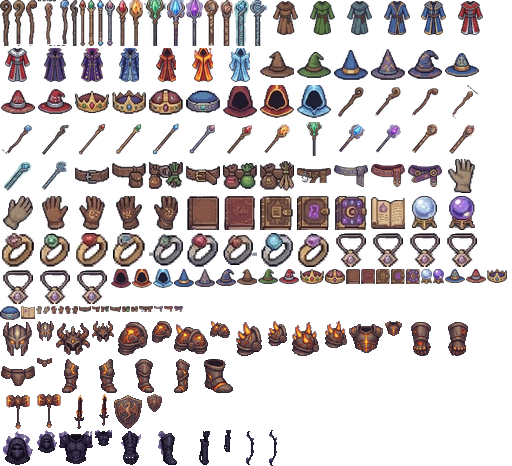
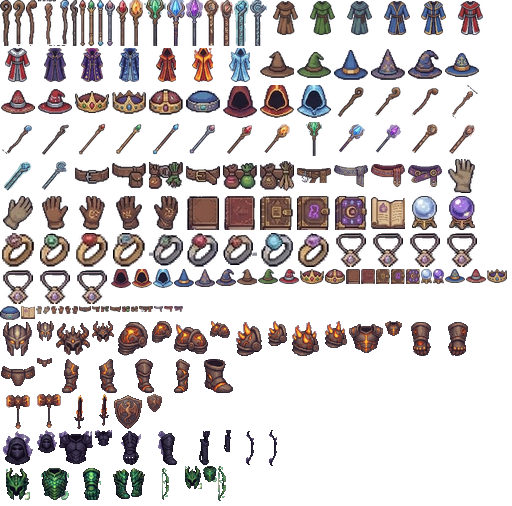
Add files via upload

diff --git a/eldoria/public/ui2.js b/eldoria/public/ui2.js
@@ -532,4 +532,73 @@
     box.append(n, cd, pw, go, msg); form.append(box);
     a.addEventListener('click', () => { box.hidden = !box.hidden; if (!box.hidden) { n.value = $('#lname').value; n.focus(); } });
   })();
+
+  /* ---------- Hidra de Jade: lluvia ácida, fuego amarillo, golpe con piedras ---------- */
+  X.on('fx', (f) => {
+    const now = performance.now();
+    switch (f.k) {
+      case 'ykw': BF.push({ k: 'ykw', t: now, T: 1000, f }); break;
+      case 'yk': BF.push({ k: 'yk', t: now, T: 1000, f, seed: Math.random() * 99 }); G.shake = { t: now, m: 3 }; X.sfx && X.sfx('boss'); X.burst(f.x1, f.y1, 'storm', 26, { sp: 4, life: 0.7, size: 3.2 }); break;
+      case 'acw': BF.push({ k: 'acw', t: now, T: 900, f }); break;
+      case 'ac': BF.push({ k: 'pool', t: now, T: 3500, x: f.x, y: f.y, seed: Math.random() * 9 }); X.burst(f.x, f.y, 'poison', 22, { sp: 3.5, up: 4, g: 5, life: 0.7, size: 3 }); X.ring(f.x, f.y, 'poison', 420, 34, 4); break;
+      case 'hsw': BF.push({ k: 'hsw', t: now, T: 1100, f }); break;
+      case 'hs': X.ring(f.x, f.y, 'poison', 650, f.r * 32, 6); X.ring(f.x, f.y, 'dark', 520, f.r * 20, 4); X.burst(f.x, f.y, 'dark', 40, { sp: 6, up: 3, g: 5, life: 0.9, size: 3.6, add: false }); G.shake = { t: now, m: 9 }; X.sfx && X.sfx('thunder'); break;
+      case 'rcw': BF.push({ k: 'rcw', t: now, T: 1100, f, h: rnd(-6, 6) }); break;
+      case 'rc': BF.push({ k: 'rubble', t: now, T: 5000, x: f.x, y: f.y, s: Math.random() * 99 }); X.burst(f.x, f.y, 'dark', 26, { sp: 5, up: 4, g: 6, life: 0.8, size: 3.4, add: false }); X.ring(f.x, f.y, 'dark', 380, 30, 4); G.shake = { t: now, m: 4 }; break;
+      default: break;
+    }
+  });
+  const hmouths = (f) => { let face = 1; for (const e of G.ents.values()) if (e.kind === 'mo' && e.t === 'hidra_jade' && Math.abs(e.x - f.x1) < 2 && Math.abs(e.y - f.y1) < 2) face = e.face || 1; return [-1.9, -1.25, -0.6].map((u) => [px(f.x1) + face * 1.7 * X.TS, py(f.y1) + u * X.TS]); };
+  X.on('under', (c, now) => {
+    const TS = X.TS;
+    for (const b of BF) {
+      const p = (now - b.t) / b.T; if (p >= 1) continue;
+      if (b.k === 'ykw') {
+        const f = b.f, [x1, y1] = hmouths(f)[1], x2 = px(f.x2), y2 = py(f.y2), a = Math.atan2(y2 - y1, x2 - x1), L = Math.hypot(x2 - x1, y2 - y1);
+        c.save(); c.translate(x1, y1); c.rotate(a); c.fillStyle = `rgba(255,210,40,${0.10 + 0.22 * p})`; c.fillRect(0, -TS * 1.8, L, TS * 3.6);
+        c.strokeStyle = `rgba(255,235,120,${0.35 + 0.4 * Math.abs(Math.sin(now / 90))})`; c.lineWidth = 2; c.strokeRect(0, -TS * 1.8, L, TS * 3.6); c.restore();
+      } else if (b.k === 'acw' || b.k === 'rcw') {
+        const f = b.f, x = px(f.x), y = py(f.y), r = f.r * TS, acid = b.k === 'acw';
+        c.fillStyle = acid ? `rgba(120,230,40,${0.10 + 0.25 * p})` : `rgba(200,170,120,${0.08 + 0.22 * p})`; c.beginPath(); c.arc(x, y, r, 0, 7); c.fill();
+        c.strokeStyle = acid ? `rgba(190,255,90,${0.5 + 0.4 * Math.abs(Math.sin(now / 70))})` : `rgba(255,200,120,${0.5 + 0.4 * Math.abs(Math.sin(now / 70))})`; c.lineWidth = 2; c.beginPath(); c.arc(x, y, r, 0, 7); c.stroke();
+      } else if (b.k === 'hsw') {
+        const f = b.f, x = px(f.x), y = py(f.y), r = f.r * TS;
+        c.fillStyle = `rgba(120,200,60,${0.08 + 0.22 * p})`; c.beginPath(); c.arc(x, y, r, 0, 7); c.fill();
+        c.strokeStyle = `rgba(200,255,120,.85)`; c.lineWidth = 3; c.beginPath(); c.arc(x, y, r, 0, 7); c.stroke(); c.beginPath(); c.arc(x, y, r * p, 0, 7); c.stroke();
+      } else if (b.k === 'pool') {
+        const x = px(b.x), y = py(b.y), al = Math.min(1, (1 - p) * 2.4);
+        const g = c.createRadialGradient(x, y, 2, x, y, TS * 1.3); g.addColorStop(0, `rgba(150,255,60,${0.75 * al})`); g.addColorStop(1, `rgba(60,150,20,0)`);
+        c.fillStyle = g; c.beginPath(); c.ellipse(x, y, TS * 1.3, TS * 0.9, 0, 0, 7); c.fill();
+        for (let i = 0; i < 4; i++) { const t = (now / 500 + i * 0.27 + b.seed) % 1; c.fillStyle = `rgba(220,255,140,${0.6 * al * (1 - t)})`; c.beginPath(); c.arc(x + Math.sin(i * 2.1 + b.seed) * TS * 0.7, y - t * 12 + 4, 2 + t * 2, 0, 7); c.fill(); }
+      } else if (b.k === 'rubble') {
+        const x = px(b.x), y = py(b.y), al = Math.min(1, (1 - p) * 3);
+        c.fillStyle = `rgba(0,0,0,${0.3 * al})`; c.beginPath(); c.ellipse(x, y + 8, 18, 6, 0, 0, 7); c.fill();
+        for (let i = 0; i < 5; i++) { const a = i * 1.3 + b.s, rr = 5 + (i % 3) * 5; c.fillStyle = `rgba(${70 + i * 12},${64 + i * 10},${58 + i * 8},${al})`; c.beginPath(); c.moveTo(x + Math.cos(a) * rr - 5, y + Math.sin(a) * rr * 0.5 + 3); c.lineTo(x + Math.cos(a) * rr + 1, y + Math.sin(a) * rr * 0.5 - 5); c.lineTo(x + Math.cos(a) * rr + 6, y + Math.sin(a) * rr * 0.5 + 4); c.closePath(); c.fill(); }
+      }
+    }
+  });
+  X.on('draw', (c, now) => {
+    const TS = X.TS;
+    for (const b of BF) {
+      const p = (now - b.t) / b.T; if (p >= 1) continue;
+      if (b.k === 'yk') {
+        const f = b.f, hm = hmouths(f), x2 = px(f.x2), y2 = py(f.y2), reach = Math.min(1, p * 4), al = p < 0.7 ? 1 : (1 - p) / 0.3;
+        hm.forEach(([x1, y1], hi) => {
+          const a = Math.atan2(y2 - y1, x2 - x1), L = Math.hypot(x2 - x1, y2 - y1);
+          c.save(); c.translate(x1, y1); c.rotate(a);
+          const n = 30; for (let i = 0; i < n; i++) {
+            const s = (i / n) * L * reach, w = 4 + (s / L) * (hi === 1 ? 24 : 15), off = Math.sin(now / 50 + i * 1.7 + b.seed + hi) * w * 0.5;
+            c.fillStyle = `rgba(255,${170 + (i % 3) * 25},20,${0.7 * al})`; c.beginPath(); c.arc(s, off, w, 0, 7); c.fill();
+          }
+          c.globalCompositeOperation = 'lighter';
+          for (let i = 0; i < 12; i++) { const s = rnd(0, L * reach); c.fillStyle = `rgba(255,245,150,${0.45 * al})`; c.beginPath(); c.arc(s, rnd(-1, 1) * (6 + s / L * 16), rnd(2, 5), 0, 7); c.fill(); }
+          c.restore();
+        });
+      } else if (b.k === 'acw' || b.k === 'rcw') {       // lo que cae: gota de ácido o piedra
+        const f = b.f, x = px(f.x), y0 = py(f.y), fall = (1 - p) * (b.k === 'acw' ? 170 : 210), y = y0 - fall;
+        if (b.k === 'acw') { c.fillStyle = 'rgba(150,255,60,.95)'; c.beginPath(); c.moveTo(x, y - 12); c.quadraticCurveTo(x + 8, y + 2, x, y + 6); c.quadraticCurveTo(x - 8, y + 2, x, y - 12); c.fill(); c.fillStyle = 'rgba(230,255,170,.8)'; c.fillRect(x - 2, y - 2, 2, 4); }
+        else { c.save(); c.translate(x + b.h, y); c.rotate(p * 7); c.fillStyle = '#6b6258'; c.beginPath(); c.moveTo(-9, 2); c.lineTo(-3, -9); c.lineTo(8, -5); c.lineTo(9, 6); c.lineTo(-2, 9); c.closePath(); c.fill(); c.strokeStyle = '#2b2622'; c.lineWidth = 2; c.stroke(); c.fillStyle = '#8c8276'; c.fillRect(-3, -6, 5, 3); c.restore(); }
+      }
+    }
+  });
 })();

diff --git a/eldoria/game/world.js b/eldoria/game/world.js
@@ -27,6 +27,7 @@ const ZONES = [
   { id: 'catacumbas', name: 'Catacumbas Silenciosas', pvp: false, kind: 'dungeon', rect: [3, 40, 30, 91] },
   { id: 'minas',      name: 'Minas Enanas',           pvp: false, kind: 'dungeon', rect: [3, 96, 28, 136] },
   { id: 'cueva',      name: 'Cueva del Dragón de las Sombras', pvp: false, kind: 'dungeon', dark: true, rect: [106, 80, 139, 99] },
+  { id: 'cueva_jade', name: 'Cueva del Hidra de Jade', pvp: false, kind: 'dungeon', dark: true, rect: [36, 38, 69, 57] },
   { id: 'abismo',     name: 'Abismo Carmesí',         pvp: true,  kind: 'dungeon', rect: [112, 40, 139, 74] },
   { id: 'piramide',   name: 'Pirámide Olvidada',      pvp: true,  kind: 'dungeon', rect: [148, 100, 175, 136] },
   { id: 'fortaleza',  name: 'Fortaleza de Hielo',     pvp: true,  kind: 'dungeon', rect: [148, 3, 175, 30] },
@@ -199,24 +200,28 @@ const forRooms = carveDungeon('fortaleza', 3, 3, T.IFLOOR);
 
 /* 3b) Cueva del Dragón: una caverna enorme y oscura con una sola puerta (en el camino del desierto) */
 const CAVE = { rect: zoneById('cueva').rect, door: [122, 79], inside: [122, 85], exit: [122, 82], lair: [123, 95] };
-(function carveCave() {
-  const [x0, y0, x1, y1] = CAVE.rect, cx = (x0 + x1) / 2, cy = (y0 + y1) / 2 + 1, nz = makeNoise(909);
+const CAVE2 = { rect: zoneById('cueva_jade').rect, door: [52, 59], inside: [52, 52], exit: [52, 55], lair: [53, 42], flip: true };
+function carveCave(C, seed) {
+  const [x0, y0, x1, y1] = C.rect, cx = (x0 + x1) / 2, cy = (y0 + y1) / 2 + (C.flip ? -1 : 1), nz = makeNoise(seed);
+  const fy = (y) => (C.flip ? y0 + y1 - y : y);          // la puerta puede estar al norte o al sur
   for (let y = y0; y <= y1; y++) for (let x = x0; x <= x1; x++) tiles[idx(x, y)] = T.CWALL;
   const floor = (x, y) => { if (x > x0 && x < x1 && y > y0 && y < y1) tiles[idx(x, y)] = T.CFLOOR; };
   for (let y = y0 + 1; y < y1; y++) for (let x = x0 + 1; x < x1; x++) {
     const dx = (x - cx) / ((x1 - x0) / 2), dy = (y - cy) / ((y1 - y0) / 2), r = Math.hypot(dx, dy);
     if (r < 0.9 + (nz(x / 3, y / 3) - 0.5) * 0.42) floor(x, y);
   }
-  for (let y = y0 + 1; y <= 88; y++) for (let x = 118; x <= 126; x++) floor(x, y);            // vestíbulo de la entrada
-  for (let y = 90; y <= y1 - 1; y++) for (let x = 114; x <= 132; x++) if (Math.hypot(x - 123, (y - 95) * 1.3) < 8.5) floor(x, y);   // guarida del dragón
-  const keep = (x, y) => Math.abs(x - CAVE.inside[0]) <= 3 && Math.abs(y - CAVE.inside[1]) <= 3 || Math.hypot(x - CAVE.lair[0], y - CAVE.lair[1]) <= 5;
-  const pil = mulberry32(31337);                                                                  // estalagmitas
+  const vx = C.inside[0];
+  for (let y = y0 + 1; y <= y0 + 8; y++) for (let x = vx - 4; x <= vx + 4; x++) floor(x, fy(y));        // vestíbulo de la entrada
+  for (let y = y0 + 10; y <= y1 - 1; y++) for (let x = C.lair[0] - 9; x <= C.lair[0] + 9; x++) if (Math.hypot(x - C.lair[0], (y - (y0 + 15)) * 1.3) < 8.5) floor(x, fy(y));   // guarida
+  const keep = (x, y) => Math.abs(x - C.inside[0]) <= 3 && Math.abs(y - C.inside[1]) <= 3 || Math.hypot(x - C.lair[0], y - C.lair[1]) <= 5;
+  const pil = mulberry32(seed * 7 + 1);                                                              // estalagmitas
   for (let y = y0 + 2; y < y1 - 1; y++) for (let x = x0 + 2; x < x1 - 1; x++) if (tiles[idx(x, y)] === T.CFLOOR && !keep(x, y) && pil() < 0.045) tiles[idx(x, y)] = T.CWALL;
-  // solo queda lo que se pueda recorrer desde la entrada
-  const seen = new Set([idx(CAVE.inside[0], CAVE.inside[1])]), q = [...seen];
+  const seen = new Set([idx(C.inside[0], C.inside[1])]), q = [...seen];                              // solo queda lo recorrible desde la entrada
   for (let i = 0; i < q.length; i++) { const k = q[i], x = k % W, y = (k / W) | 0; for (const [dx, dy] of [[1, 0], [-1, 0], [0, 1], [0, -1], [1, 1], [-1, -1], [1, -1], [-1, 1]]) { const nk = idx(x + dx, y + dy); if (!seen.has(nk) && tiles[nk] === T.CFLOOR) { seen.add(nk); q.push(nk); } } }
   for (let y = y0; y <= y1; y++) for (let x = x0; x <= x1; x++) if (tiles[idx(x, y)] === T.CFLOOR && !seen.has(idx(x, y))) tiles[idx(x, y)] = T.CWALL;
-})();
+}
+carveCave(CAVE, 909);
+carveCave(CAVE2, 1313);
 
 /* 4) Caminos (despejan árboles, agua y rocas del trazado) */
 function carvePath(x0, y0, x1, y1) {
@@ -253,6 +258,8 @@ link(150, 90, pirRooms, 150, 89, 'Pirámide Olvidada (¡PvP!)', 'Salir al Desier
 link(130, 20, forRooms, 130, 22, 'Fortaleza de Hielo (¡PvP!)', 'Salir a las Cumbres');
 addPortal(CAVE.door[0], CAVE.door[1], CAVE.inside[0], CAVE.inside[1], 'Cueva del Dragón de las Sombras (peligro extremo)');
 addPortal(CAVE.exit[0], CAVE.exit[1], CAVE.door[0], CAVE.door[1] - 1, 'Salir al Desierto');
+addPortal(CAVE2.door[0], CAVE2.door[1], CAVE2.inside[0], CAVE2.inside[1], 'Cueva del Hidra de Jade (peligro extremo)');
+addPortal(CAVE2.exit[0], CAVE2.exit[1], CAVE2.door[0], CAVE2.door[1] + 1, 'Salir al Prado');
 
 function clearAround(cx, cy, r) {
   for (let y = cy - r; y <= cy + r; y++) {
@@ -348,6 +355,7 @@ const monsterSpawns = [];
   monsterSpawns.push({ type: 'faraon', x: last(pirRooms).cx, y: last(pirRooms).cy });
   monsterSpawns.push({ type: 'reina_hielo', x: last(forRooms).cx, y: last(forRooms).cy });
   monsterSpawns.push({ type: 'dragon_sombra', x: CAVE.lair[0], y: CAVE.lair[1] });
+  monsterSpawns.push({ type: 'hidra_jade', x: CAVE2.lair[0], y: CAVE2.lair[1] });
   const nearest = (zoneId, px, py) => {
     let best = null, bd = 1e9;
     for (let y = 0; y < H; y++) for (let x = 0; x < W; x++) {

diff --git a/eldoria/game/ext.js b/eldoria/game/ext.js
@@ -795,10 +795,59 @@ module.exports = function install(Game) {
       });
     }
   };
+  // Hidra de Jade: lluvia ácida, fuego amarillo por las bocas y golpe al suelo con caída de piedras
+  P.hydraAI = function (m, now) {
+    if (now < (m.nextSp || 0)) return;
+    const t = m.target ? this.ents.get(m.target) : null; if (!t || t.kind !== 'pl' || t.hp <= 0) return;
+    const d = Math.hypot(t.x - m.x, t.y - m.y);
+    const near = [...this.players.values()].some((q) => q.hp > 0 && !inTownP(q) && Math.hypot(q.x - m.x, q.y - m.y) <= 6);
+    const order = ['acid', 'fire', 'stomp', 'acid', 'stomp', 'fire'];
+    let kind = order[(m.spN || 0) % order.length];
+    if (kind === 'fire' && !(d >= 2 && d <= 12)) kind = near ? 'stomp' : 'acid';
+    else if (kind === 'stomp' && !near) kind = d >= 2 && d <= 12 ? 'fire' : 'acid';
+    m.spN = (m.spN || 0) + 1; m.nextSp = now + 5500 + Math.random() * 3000;
+    m.nextMove = Math.max(m.nextMove, now + 1700); m.nextAtk = Math.max(m.nextAtk, now + 1700);
+    const alive = () => !m.dead && this.monsters.includes(m);
+    const near14 = (cx, cy, r) => [...this.players.values()].filter((q) => q.hp > 0 && !inTownP(q) && Math.hypot(q.x - cx, q.y - cy) <= r);
+    const rain = (cx, cy, R, warnK, hitK, n, lo, hi, tag, delay) => {       // círculos de aviso y luego impacto (se esquivan caminando)
+      const spots = [], tg = near14(cx, cy, R + 4);
+      for (let i = 0; i < n; i++) { const q = tg[i]; spots.push(q ? [q.x, q.y] : [Math.round(cx + (Math.random() - 0.5) * 2 * R), Math.round(cy + (Math.random() - 0.5) * 2 * R)]); }
+      for (const [x, y] of spots) this.fx.push({ k: warnK, x, y, r: 1.5 });
+      this.later(delay, () => {
+        if (!alive()) return;
+        for (const [x, y] of spots) { this.fx.push({ k: hitK, x, y }); hitPlayers(this, this.now, m, (q) => Math.hypot(q.x - x, q.y - y) <= 1.5, lo, hi, tag); }
+      });
+    };
+    if (kind === 'fire') {                                      // aliento de fuego amarillo
+      let dx = t.x - m.x, dy = t.y - m.y; const L = Math.hypot(dx, dy) || 1; dx /= L; dy /= L;
+      const ex = m.x + dx * 12, ey = m.y + dy * 12, ox = m.x, oy = m.y;
+      this.fx.push({ k: 'ykw', x1: ox, y1: oy, x2: ex, y2: ey });
+      this.later(1000, () => {
+        if (!alive()) return; const nw = this.now;
+        this.fx.push({ k: 'yk', x1: ox, y1: oy, x2: ex, y2: ey });
+        const hit = [];
+        for (const q of this.players.values()) { const rx = q.x - ox, ry = q.y - oy, s = rx * dx + ry * dy, perp = Math.abs(rx * dy - ry * dx); if (q.hp > 0 && !inTownP(q) && s >= 0.5 && s <= 12.5 && perp <= 1.8) hit.push(q); }
+        for (const q of hit) this.hurtPlayer(q, rnd(400, 580), m, nw, m.def.name);
+        for (let i = 1; i <= 3; i++) this.later(900 * i, () => { if (!alive()) return; for (const q of hit) if (q.hp > 0 && this.players.get(q.key) === q) { this.fx.push({ k: 'burn', x: q.x, y: q.y }); this.hurtPlayer(q, rnd(55, 90), m, this.now, 'Fuego amarillo'); } });
+      });
+    } else if (kind === 'acid') {                               // lluvia de ácido: tres oleadas
+      for (let w = 0; w < 3; w++) this.later(w * 1100, () => { if (alive()) rain(m.x, m.y, 10, 'acw', 'ac', 5 + w, 300, 440, 'Lluvia ácida', 900); });
+    } else {                                                    // golpe al suelo: onda y lluvia de piedras
+      const R = 4.5, cx = m.x, cy = m.y;
+      this.fx.push({ k: 'hsw', x: cx, y: cy, r: R });
+      this.later(1100, () => {
+        if (!alive()) return;
+        this.fx.push({ k: 'hs', x: cx, y: cy, r: R });
+        hitPlayers(this, this.now, m, (q) => Math.hypot(q.x - cx, q.y - cy) <= R, 480, 680);
+        rain(cx, cy, 9, 'rcw', 'rc', Math.min(9, 4 + near14(cx, cy, 14).length * 2), 360, 520, 'Piedra', 1100);
+      });
+    }
+  };
   G0.updateMonster = P.updateMonster;
   P.updateMonster = function (m, now) {
     G0.updateMonster.call(this, m, now);
     if (m.def.special === 'dragon' && !m.dead) this.dragonAI(m, now);
+    else if (m.def.special === 'hydra' && !m.dead) this.hydraAI(m, now);
   };
 
   /* ============================ ENGANCHES DE COMBATE ============================ */

diff --git a/eldoria/test/logic2.js b/eldoria/test/logic2.js
@@ -198,6 +198,23 @@ ok('Dragón de las Sombras: nivel 500, aliento negro, pisotón con grietas y bot
   ['dkw', 'dk', 'slw', 'sl', 'fiw', 'fi'].forEach((k) => assert.ok(seen.has(k), 'fx ' + k + ' → ' + [...seen]));
   game.removeEventBoss = game.removeEventBoss; game.mgrid.delete(m.y * world.W + m.x); game.monsters = game.monsters.filter((q) => q !== m); game.ents.delete(m.id);
 });
+ok('Hidra de Jade: cueva propia, set de arquero y sus tres ataques', () => {
+  assert.equal(MONSTERS.hidra_jade.special, 'hydra'); assert.equal(MONSTERS.hidra_jade.respawn, 60000);
+  const loot = MONSTERS.hidra_jade.loot.map((l) => l[0]);
+  ['jade_yelmo', 'jade_coraza', 'jade_guantes', 'jade_botas', 'jade_arco'].forEach((i) => assert.ok(loot.includes(i), i));
+  assert.equal(ITEMS.jade_arco.style, 'ranged');
+  const sp = world.monsterSpawns.find((q) => q.type === 'hidra_jade'); assert.equal(zoneOf([sp.x, sp.y]).id, 'cueva_jade');
+  assert.equal(world.monsterSpawns.filter((q) => zoneOf([q.x, q.y]).id === 'cueva_jade').length, 1, 'solo la hidra');
+  const door = world.PORTALS.find((q) => q.x === 52 && q.y === 59); assert.ok(door && zoneOf([door.tx, door.ty]).id === 'cueva_jade');
+  const a = login('Hyd1'); a.p.level = 80; a.p.maxHp = a.p.hp = 9000; place(a.p, sp.x + 5, sp.y + 2);
+  const m = game.spawnMonster('hidra_jade', sp.x, sp.y); m.noRespawn = true; m.target = a.p.id;
+  const seen = new Set(); const push0 = game.fx.push.bind(game.fx); game.fx.push = (...f) => { f.forEach((x) => seen.add(x.k)); return push0(...f); };
+  const need = ['ykw', 'yk', 'acw', 'ac', 'hsw', 'hs', 'rcw', 'rc'];
+  for (let i = 0; i < 1800 && !need.every((k) => seen.has(k)); i++) { a.p.hp = 9000; place(a.p, m.x + 6, m.y + 1); T0 += CFG.TICK_MS; game.tick(T0); }
+  delete game.fx.push;
+  need.forEach((k) => assert.ok(seen.has(k), 'fx ' + k + ' → ' + [...seen]));
+  game.mgrid.delete(m.y * world.W + m.x); game.monsters = game.monsters.filter((q) => q !== m); game.ents.delete(m.id);
+});
 ok('mazmorras y cuevas: nadie ataca a través de la entrada', () => {
   const a = login('Wall1'); place(a.p, 122, 78); a.p.hp = a.p.maxHp = 5000;
   const m = game.spawnMonster('dragon_sombra', 122, 84); const hp0 = m.hp;

diff --git a/eldoria/game/extra.js b/eldoria/game/extra.js
@@ -77,6 +77,7 @@ const EXTRA_ITEMS = {
   montura_lobo: { name: 'Lobo de Montar', icon: '🐺', type: 'mount', mon: 'lobo', scale: 0.95, speed: 0.78, minLevel: 15, price: 6000, sell: 1500, desc: 'Cabalgas un 22% más rápido.' },
   montura_oso: { name: 'Oso Pardo de Montar', icon: '🐻', type: 'mount', mon: 'oso', scale: 0.9, speed: 0.7, minLevel: 25, price: 20000, sell: 5000, desc: 'Cabalgas un 30% más rápido.' },
   montura_dragon: { name: 'Dragón Joven', icon: '🐉', type: 'mount', mon: 'dragon', scale: 0.62, speed: 0.58, minLevel: 40, sell: 30000, desc: 'Vuelas un 42% más rápido.' },
+  trofeo_hidra: { name: 'Escama de Jade', icon: '💚', type: 'misc', stack: true, sell: 22000 },
   trofeo_dragon: { name: 'Escama de las Sombras', icon: '🖤', type: 'misc', stack: true, sell: 20000 },
   trofeo_coloso: { name: 'Trofeo del Coloso', icon: '🏆', type: 'misc', stack: true, sell: 8000 },
 };
@@ -113,7 +114,12 @@ const DRAGON = {
   def: { name: 'Dragón de las Sombras', icon: '🐉', lv: 500, hp: 300000, dmg: [220, 380], exp: 60000, move: 380, atkCd: 1300, aggro: 14, respawn: 60000, armor: 0.8, shared: true, boss: true, special: 'dragon',
     gold: [10000, 20000], loot: [['trofeo_dragon', 1, 1, 2], ['pocion_vida_g', 1, 5, 10], ['pocion_mana_g', 1, 5, 10], ['pluma_fenix', 0.5, 1, 2]] },
 };
+const JADE = {
+  type: 'hidra_jade',
+  def: { name: 'Hidra de Jade', icon: '🐲', lv: 550, hp: 320000, dmg: [190, 340], exp: 70000, move: 400, atkCd: 1300, aggro: 14, respawn: 60000, armor: 0.8, shared: true, boss: true, special: 'hydra',
+    gold: [12000, 22000], loot: [['trofeo_hidra', 1, 1, 2], ['pocion_vida_g', 1, 5, 10], ['pocion_mana_g', 1, 5, 10], ['pluma_fenix', 0.5, 1, 2]] },
+};
 BOSS.mins = 12; BOSS.arena = [100, 107]; BOSS.icon = '🗿';
 const BOSSES = [BOSS];   // el dragón vive en su cueva (no es jefe de evento)
 
-module.exports = { BOSSES, DRAGON, ACHS, SKILLS, EXTRA_ITEMS, RECIPES, NODES, BOSS };
+module.exports = { BOSSES, DRAGON, JADE, ACHS, SKILLS, EXTRA_ITEMS, RECIPES, NODES, BOSS };

diff --git a/eldoria/public/game.js b/eldoria/public/game.js
@@ -1083,6 +1083,7 @@
     const bd = G.items[gr.bid], rp = bd && bd.spr && ROBE_PAL[bd.spr];
     if (bd && bd.spr === 't_chest') return { id: gr.bid, m: ['#74594a', '#4c3a30'] };
     if (bd && bd.spr === 's_chest') return { id: gr.bid, m: ['#3a3548', '#262234'] };
+    if (bd && bd.spr === 'j_chest') return { id: gr.bid, m: ['#2f8a4a', '#1c5a32'] };
     if (rp) return { id: gr.bid, m: [rp[0], rp[1]], robe: { trim: rp[2], kind: rp[3] } };
     return { id: gr.bid, m: matOf(gr.bid, /cuero/.test(gr.bid) ? 'cuero' : 'hierro') };
   }
@@ -1268,9 +1269,9 @@
     robe6: ['#b02a2a', '#6e1818', '#d4d9e0', 0], robe7: ['#40307a', '#251a4a', '#7a5ac0', 0], robe8: ['#5a3aa0', '#2e1f5c', '#ffe070', 1],
     robe9: ['#2f5a9a', '#1c3868', '#d8ecff', 1], robe10: ['#8a2a10', '#4a1208', '#ff8a2a', 2], robe11: ['#e06a10', '#8a2a08', '#ffd040', 2], robe12: ['#6ab0e0', '#3a78b0', '#f0fcff', 2],
   };
-  const GLOVE_COL = { glove0: '#b8a88a', glove1: '#b8a88a', glove2: '#8a5a30', glove3: '#7a4a28', glove4: '#6a3e20', glove5: '#6a3e20', t_glove1: '#7a5a48', t_glove2: '#7a5a48', s_gauntlet: '#2f2a3c' };
-  const BOOT_COL = { t_boot: ['#5d4637', '#ff8a1f'], s_boot: ['#2c2838', '#9a6ad8'] };
-  const CHEST_SPR = new Set(['t_chest', 's_chest']);
+  const GLOVE_COL = { glove0: '#b8a88a', glove1: '#b8a88a', glove2: '#8a5a30', glove3: '#7a4a28', glove4: '#6a3e20', glove5: '#6a3e20', t_glove1: '#7a5a48', t_glove2: '#7a5a48', s_gauntlet: '#2f2a3c', j_glove: '#2f7a4a' };
+  const BOOT_COL = { t_boot: ['#5d4637', '#ff8a1f'], s_boot: ['#2c2838', '#9a6ad8'], j_boot: ['#24603a', '#9ee85a'] };
+  const CHEST_SPR = new Set(['t_chest', 's_chest', 'j_chest']);
 
   /* ---------- sprites de píxel-art (monstruos y PNJ) ---------- */
   const SPR = {};

diff --git a/eldoria/game/jade.js b/eldoria/game/jade.js
@@ -1,0 +1,21 @@
+'use strict';
+/** Set del Hidra de Jade (arquero): botín raro de la Hidra de Jade. [id, nombre, sprite, tipo, nivel, def, bonus, probabilidad] */
+const PIECES = [
+  ['jade_yelmo',    'Yelmo de Jade',        'j_helm',  'head',   70, 42, { hp: 260, crit: 0.03 }, 0.06],
+  ['jade_coraza',   'Coraza de Escamas de Jade', 'j_chest', 'body', 74, 58, { hp: 400, atk: 9 }, 0.04],
+  ['jade_guantes',  'Guanteletes de Jade',  'j_glove', 'gloves', 72, 18, { hp: 100, atk: 8, crit: 0.02 }, 0.06],
+  ['jade_botas',    'Botas de Jade',        'j_boot',  'boots',  71, 22, { hp: 140 }, 0.06],
+];
+const BOW = ['jade_arco', 'Arco de la Hidra', 'j_bow', 76, 128, 1150, 'poison', 0.04];
+const ICON = { head: '🐲', body: '🛡', gloves: '🧤', boots: '🥾' };
+
+function build(ITEMS, MONSTERS, bossType) {
+  for (const [id, name, spr, type, L, def, bonus] of PIECES) {
+    ITEMS[id] = { name, icon: ICON[type], spr, type, def, bonus, jade: 1, minLevel: L, sell: Math.round(8 + L * L * 3.4) * 4 };
+  }
+  { const [id, name, spr, L, atk, cd, el] = BOW; ITEMS[id] = { name, icon: '🏹', spr, type: 'weapon', style: 'ranged', atk, cd, range: 8, el, jade: 1, minLevel: L, sell: Math.round(8 + L * L * 3.4) * 6 }; }
+  const boss = MONSTERS[bossType];
+  for (const p of PIECES) boss.loot.push([p[0], p[7], 1, 1]);
+  boss.loot.push([BOW[0], BOW[7], 1, 1]);
+}
+module.exports = { build, PIECES, BOW };

diff --git a/eldoria/public/env.js b/eldoria/public/env.js
@@ -68,6 +68,7 @@
       const lit = cave || a0 > 0.12 ? 1 : 0.5 * (a0 / 0.12);
       hole(px, py, (cave ? 200 : 150) + 16 * Math.min(4, G.me.v || 0), 0.95 * Math.max(0.2, lit));
       for (const e of G.ents.values()) if (e.kind === 'pl' && e.id !== G.id) hole((e.rx - G.cam.x) * TS + cw / 2, (e.ry - G.cam.y) * TS + ch / 2 - 6, 70, 0.8 * lit);
+      if (cave) for (const e of G.ents.values()) if (e.kind === 'mo' && G.mons[e.t] && G.mons[e.t].boss) hole((e.rx - G.cam.x) * TS + cw / 2, (e.ry - G.cam.y) * TS + ch / 2 - 30, 150, 0.9);   // el jefe de la cueva se ve de lejos
       for (const n of G.npcs) hole((n.x - G.cam.x) * TS + cw / 2 + TS / 2 - 16, (n.y - G.cam.y) * TS + ch / 2, 90, 0.85 * lit);
       for (const p of G.portals) hole((p.x - G.cam.x) * TS + cw / 2, (p.y - G.cam.y) * TS + ch / 2, 80, 0.8 * lit);
       c.drawImage(lc, 0, 0, w, hgt, 0, 0, cw, ch);

diff --git a/eldoria/game/data.js b/eldoria/game/data.js
@@ -450,6 +450,8 @@ require('./mage').build(ITEMS, SHOPS, MONSTERS);
   require('./titan').build(ITEMS, MONSTERS, X.BOSS.type);
   MONSTERS[X.DRAGON.type] = X.DRAGON.def;
   require('./shadow').build(ITEMS, MONSTERS, X.DRAGON.type);
+  MONSTERS[X.JADE.type] = X.JADE.def;
+  require('./jade').build(ITEMS, MONSTERS, X.JADE.type);
   SHOPS.brisa.push('mascota_lobito', 'mascota_murcielago', 'mascota_goblin', 'montura_lobo', 'montura_oso');
   const rare = [['lobo', 'mascota_lobito', 0.004], ['murcielago', 'mascota_murcielago', 0.003], ['goblin', 'mascota_goblin', 0.003], ['dragon', 'mascota_dragoncito', 0.01],
     ['espectro_helado', 'mascota_fantasma', 0.006], ['lobo_hielo', 'montura_lobo', 0.002], ['oso', 'montura_oso', 0.002], ['dragon', 'pluma_fenix', 0.08], ['faraon', 'pluma_fenix', 0.5],

diff --git a/eldoria/README.md b/eldoria/README.md
@@ -114,3 +114,6 @@ Botín compartido de todos los jefes: cada jugador que le haga al menos 1 % del 
 ## Botín por clic derecho y tumba
 - Clic derecho sobre un objeto del suelo: menú «Recoger X» para cada objeto de la casilla. Caminas hasta allí y recoges solo ese (el resto queda). Pisar una casilla sin elegir sigue recogiendo todo.
 - Si mueres en una zona peligrosa (PvP o mazmorra/cueva) queda una cruz enterrada donde caíste, visible en el mundo y en el minimapa (solo para ti). Desaparece al acercarte o tras 2 horas, y se guarda aunque te desconectes.
+
+## Cueva del Hidra de Jade
+Segunda cueva oscura (zona `cueva_jade`, sin PvP) en el prado del noroeste: puerta en (52,59). Dentro solo vive la **Hidra de Jade** (nivel 550, 320.000 de vida, 80 % de defensa, reaparece al minuto, botín compartido). Tres ataques con aviso en el suelo: **lluvia ácida** (tres oleadas de gotas que dejan charcos), **fuego amarillo** por las tres bocas (línea larga + quemadura) y **golpe al suelo** con onda y **caída de piedras**. Botín raro: set de arquero de jade (Yelmo, Coraza, Guanteletes, Botas) y el Arco de la Hidra, además de la Escama de Jade.
